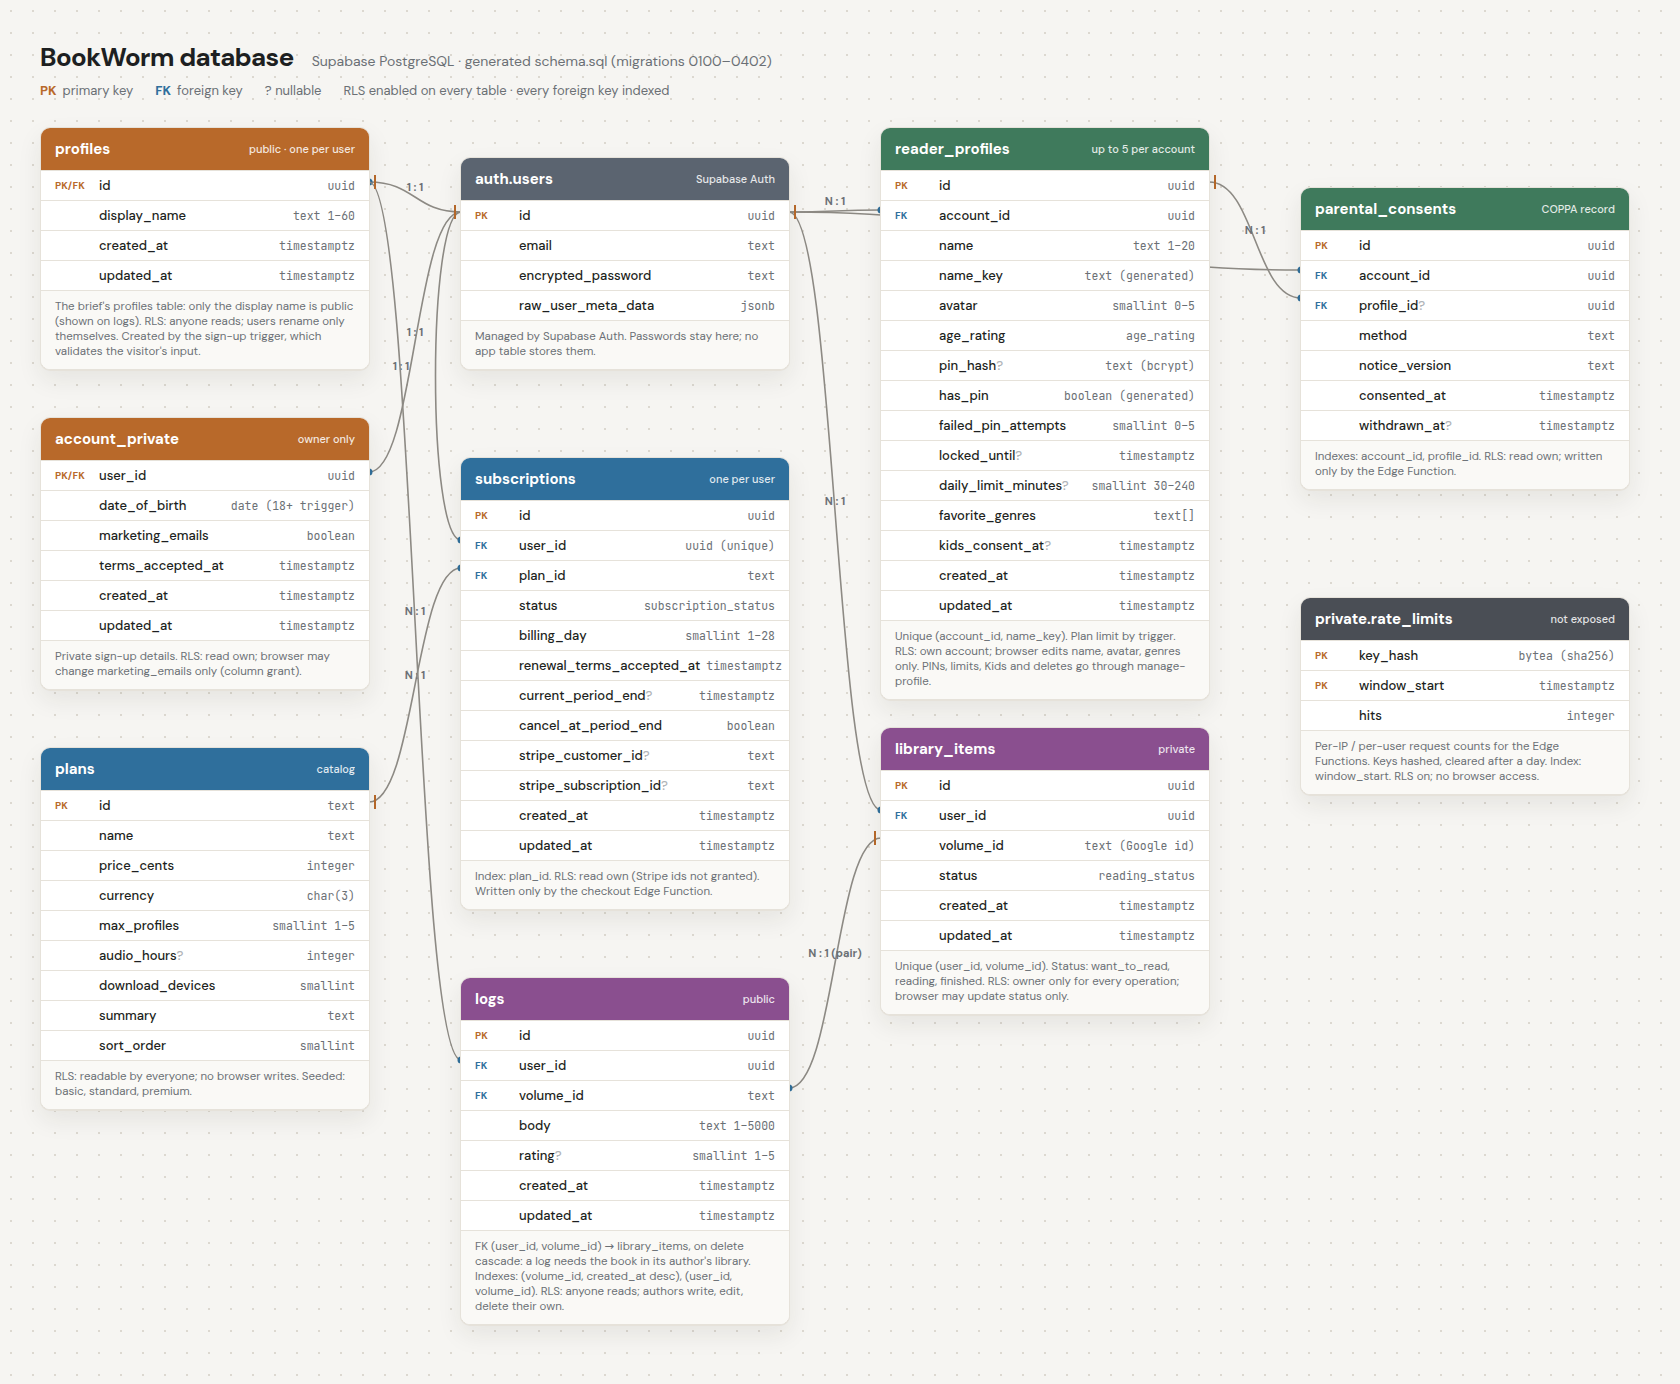
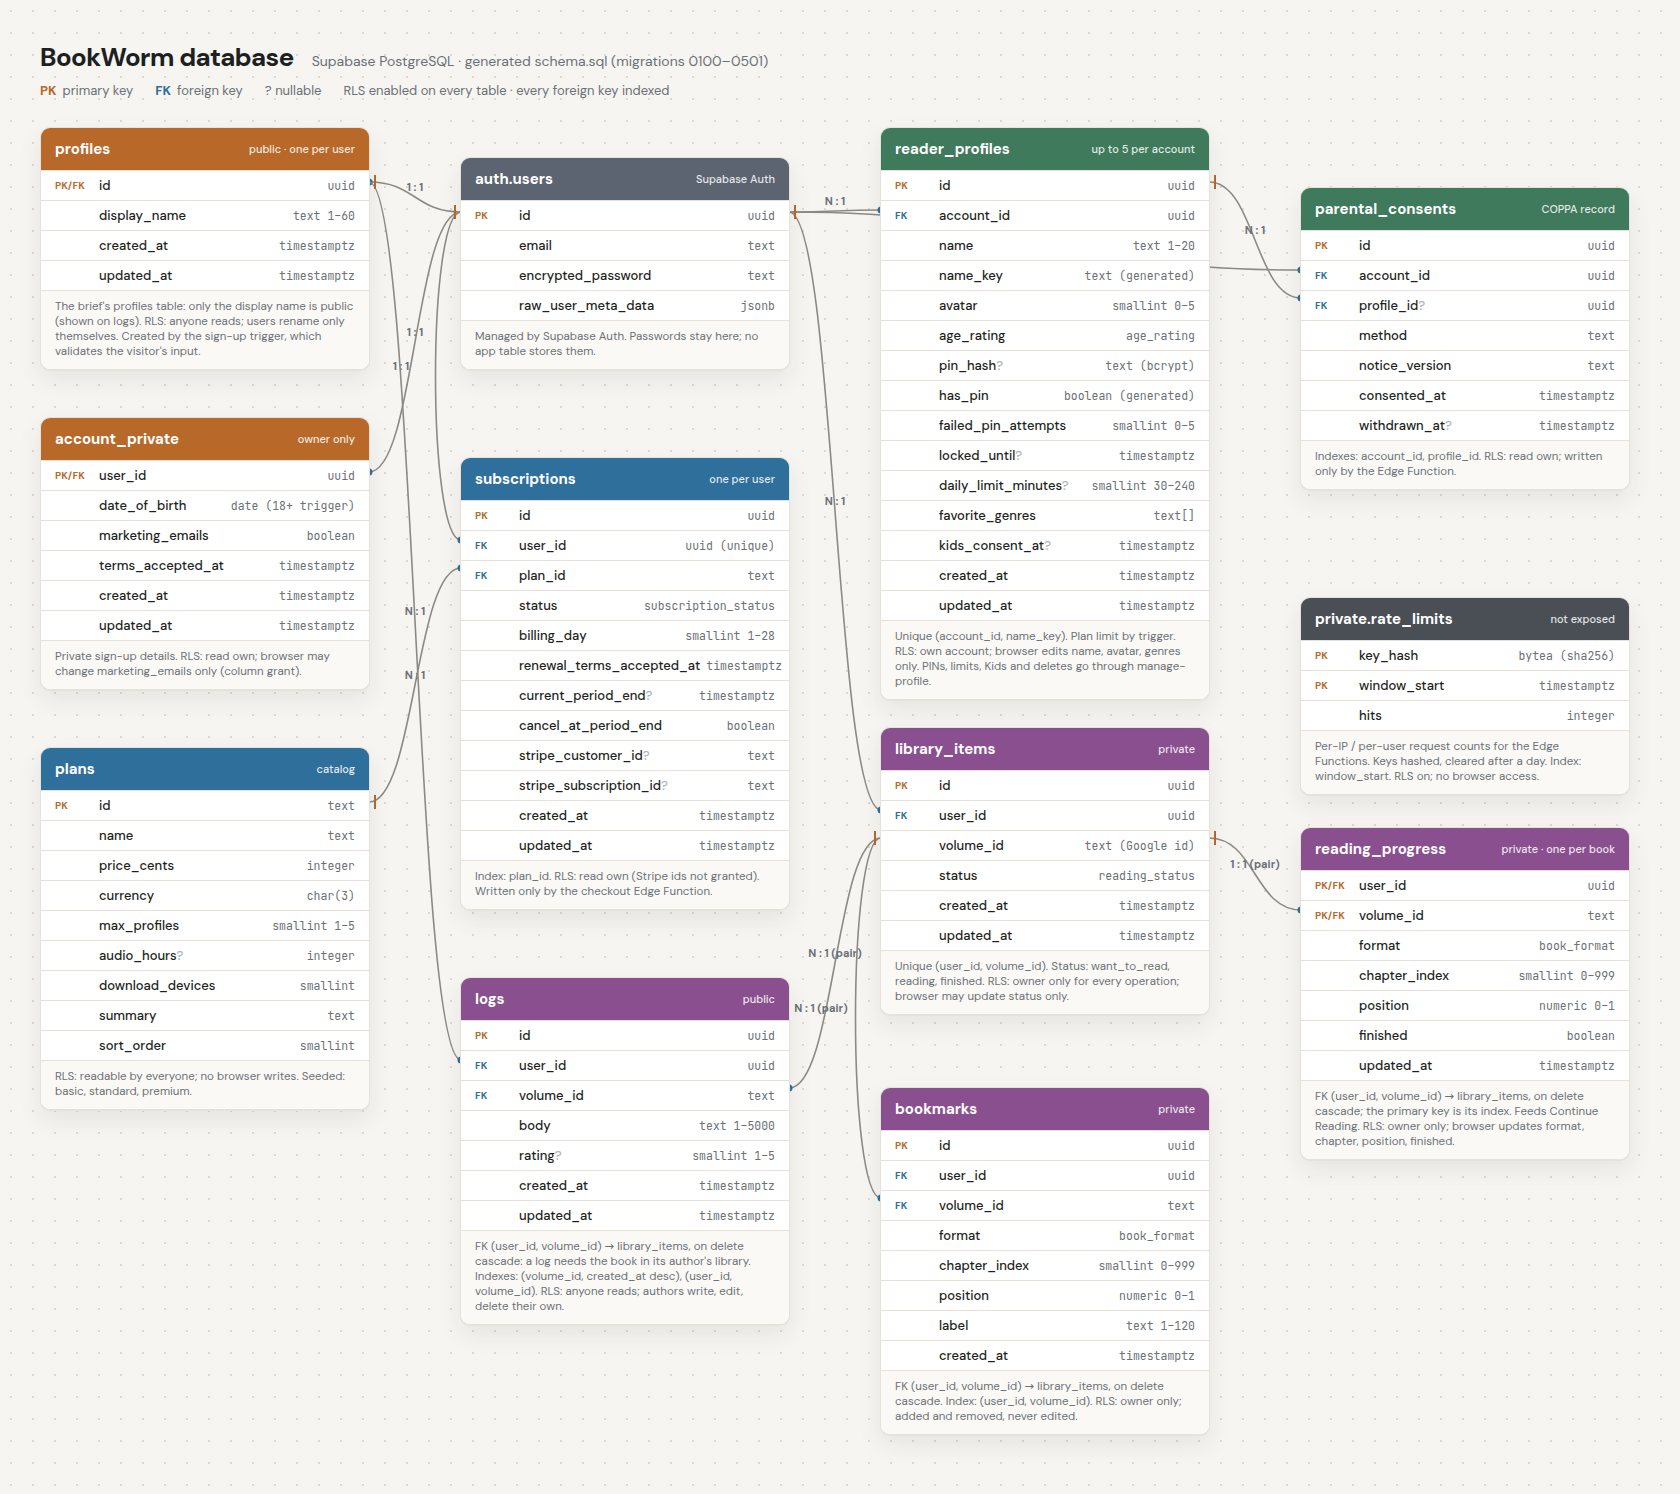
Schema: reading progress and bookmarks for the reader and player
reading_progress (one row per book) and bookmarks, private to the account,
each tied to a book in the library by a composite foreign key that cascades
when the book is removed. RLS owner-only with column grants; bookmarks are
indexed on (user_id, volume_id). Security tests cover isolation, the grants,
the checks and the cascade. schema.sql and drawsql.png regenerated.

diff --git a/docs/erd/erd.html b/docs/erd/erd.html
@@ -87,7 +87,7 @@
 
     <script>
       // ---- Keep in sync with schema.sql -------------------------------------------------
-      const subtitle = "Supabase PostgreSQL · generated schema.sql (migrations 0100–0402)";
+      const subtitle = "Supabase PostgreSQL · generated schema.sql (migrations 0100–0501)";
 
       const colors = {
         auth: "#5b6470", account: "#b8692a", billing: "#2f6f9c", household: "#3f7a5c",
@@ -187,6 +187,33 @@
           note: "Unique (user_id, volume_id). Status: want_to_read, reading, finished. RLS: owner only for every operation; browser may update status only.",
         },
         {
+          id: "reading_progress", color: colors.reading, x: 1260, y: 700, sub: "private · one per book",
+          cols: [
+            ["pk fk", "user_id", "uuid"],
+            ["pk fk", "volume_id", "text"],
+            ["", "format", "book_format"],
+            ["", "chapter_index", "smallint 0–999"],
+            ["", "position", "numeric 0–1"],
+            ["", "finished", "boolean"],
+            ["", "updated_at", "timestamptz"],
+          ],
+          note: "FK (user_id, volume_id) → library_items, on delete cascade; the primary key is its index. Feeds Continue Reading. RLS: owner only; browser updates format, chapter, position, finished.",
+        },
+        {
+          id: "bookmarks", color: colors.reading, x: 840, y: 960, sub: "private",
+          cols: [
+            ["pk", "id", "uuid"],
+            ["fk", "user_id", "uuid"],
+            ["fk", "volume_id", "text"],
+            ["", "format", "book_format"],
+            ["", "chapter_index", "smallint 0–999"],
+            ["", "position", "numeric 0–1"],
+            ["", "label", "text 1–120"],
+            ["", "created_at", "timestamptz"],
+          ],
+          note: "FK (user_id, volume_id) → library_items, on delete cascade. Index: (user_id, volume_id). RLS: owner only; added and removed, never edited.",
+        },
+        {
           id: "reader_profiles", color: colors.household, x: 840, y: 0, sub: "up to 5 per account",
           cols: [
             ["pk", "id", "uuid"],
@@ -243,6 +270,8 @@
         ["library_items", "user_id", "auth.users", "id", "N : 1"],
         ["logs", "user_id", "profiles", "id", "N : 1"],
         ["logs", "volume_id", "library_items", "volume_id", "N : 1 (pair)"],
+        ["reading_progress", "volume_id", "library_items", "volume_id", "1 : 1 (pair)"],
+        ["bookmarks", "volume_id", "library_items", "volume_id", "N : 1 (pair)"],
       ];
       // -----------------------------------------------------------------------------------
 
